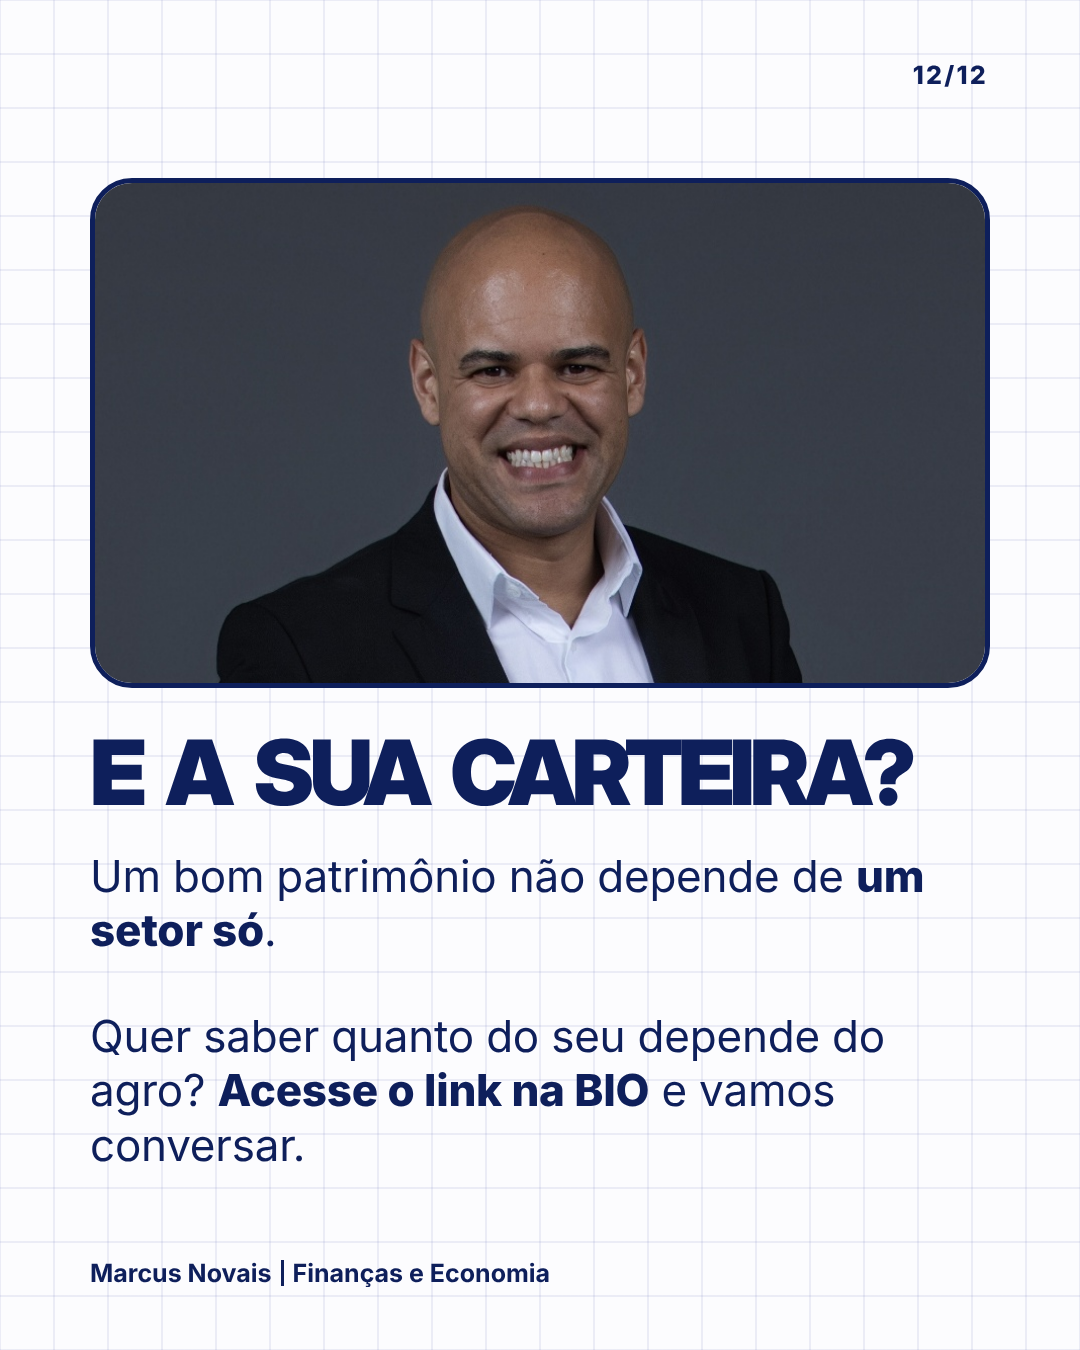
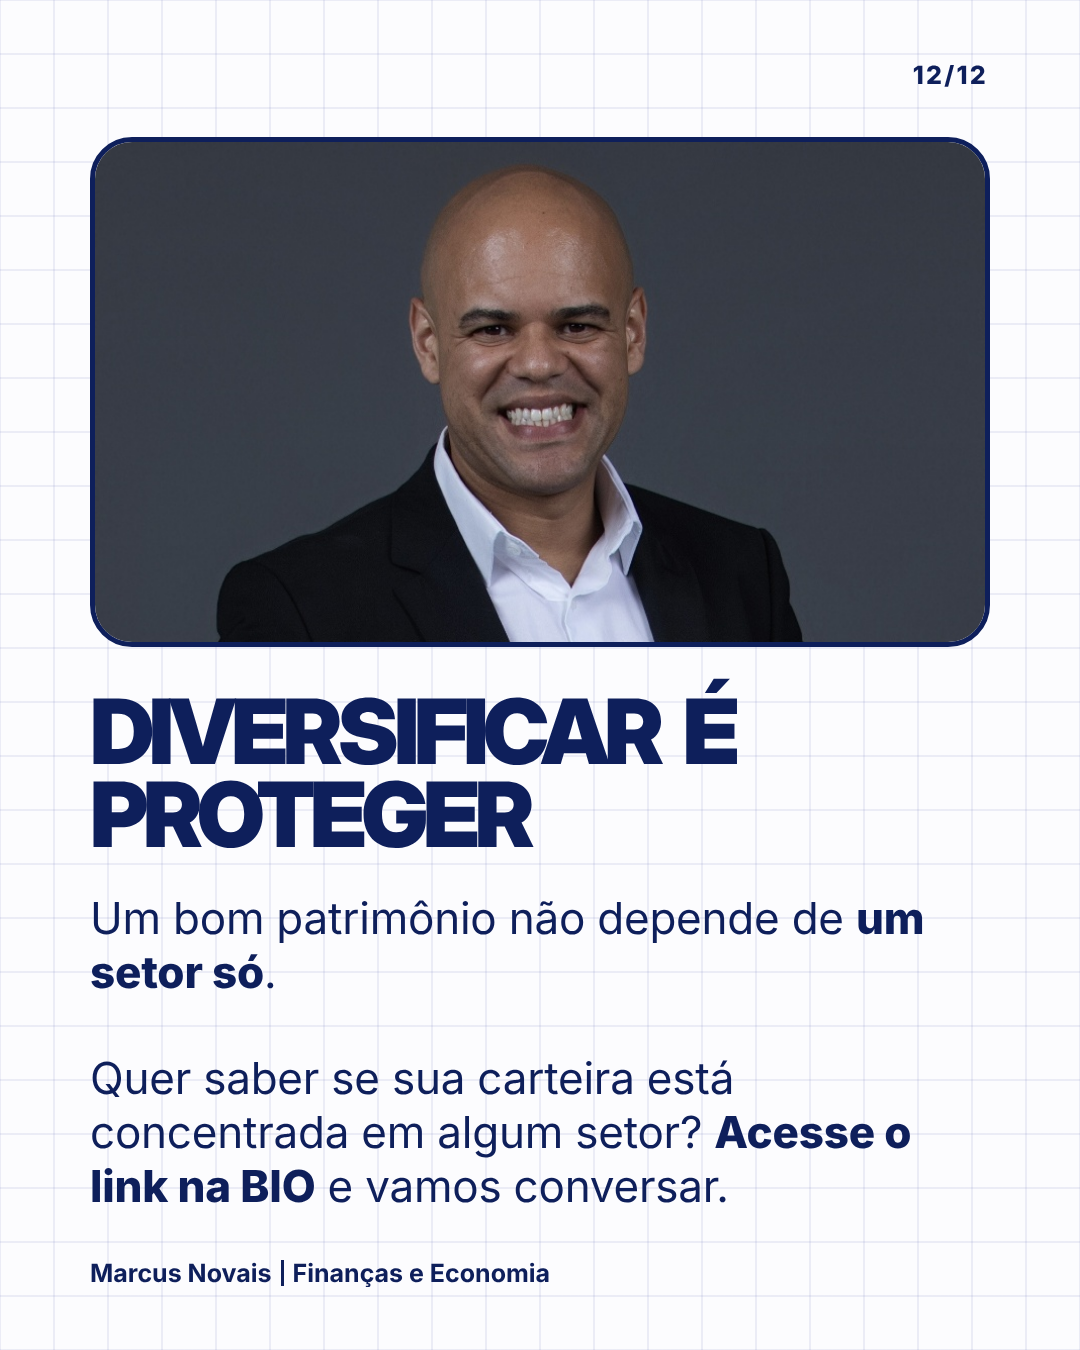
Carrossel China/África: bandeira da China na capa e novo CTA sobre concentração setorial
Claude-Session: https://claude.ai/code/session_01JkBXj6tz5hpSkGAznkwYEm

Changed region(s): [[0.0611, 0.0933, 0.9167, 0.9022]]

diff --git a/carrossel-china-africa-agro/slides.html b/carrossel-china-africa-agro/slides.html
@@ -57,7 +57,10 @@
 
 <!-- 01 CAPA -->
 <section class="slide">
-  <div class="photo" style="height:500px"><img src="img/soja.jpg" style="object-position:50% 62%"></div>
+  <div class="photo" style="height:500px; display:flex">
+    <svg id="flag" viewBox="0 0 13.2 20" preserveAspectRatio="xMinYMid slice" style="width:37%; height:100%; flex:none; border-right:5px solid var(--navy)"><rect width="30" height="20" fill="#EE1C25"/></svg>
+    <img src="img/soja.jpg" style="object-position:38% 62%; width:63%; flex:1">
+  </div>
   <h1>A China abriu a porta para o agro da África.</h1>
   <p>E o Brasil precisa prestar atenção.</p>
 </section>
@@ -166,9 +169,9 @@
 <!-- 12 CTA -->
 <section class="slide">
   <div class="photo" style="height:510px"><img src="img/marcus.jpg" style="object-position:50% 20%"></div>
-  <h1>E a sua carteira?</h1>
+  <h1>Diversificar é proteger</h1>
   <p>Um bom patrimônio não depende de <b>um setor só</b>.</p>
-  <p>Quer saber quanto do seu depende do agro? <b>Acesse o link na BIO</b> e vamos conversar.</p>
+  <p>Quer saber se sua carteira está concentrada em algum setor? <b>Acesse o link na BIO</b> e vamos conversar.</p>
 </section>
 
 <script>
@@ -177,6 +180,14 @@ slides.forEach((s,i)=>{
   const n=String(i+1).padStart(2,'0')+'/'+String(N).padStart(2,'0');
   s.insertAdjacentHTML('beforeend',`<div class="count">${n}</div><div class="foot"><div class="who">Marcus Novais<span></span>Finanças e Economia</div>${i<N-1?'<div class="go">deslize <svg width="38" height="28" viewBox="0 0 38 28" fill="none" stroke="#0e1f5b" stroke-width="3.6" stroke-linecap="round" stroke-linejoin="round"><path d="M2 14h33M23 3l12 11-12 11"/></svg></div>':''}</div>`);
 });
+// bandeira da China: estrela grande em (5,5) e quatro menores apontando para ela
+(function(){
+  const f=document.getElementById('flag');
+  const star=(cx,cy,r,rot)=>{let p=[];for(let i=0;i<10;i++){const a=rot+i*Math.PI/5,q=i%2?r*0.382:r;p.push((cx+q*Math.sin(a)).toFixed(3)+','+(cy-q*Math.cos(a)).toFixed(3));}
+    f.insertAdjacentHTML('beforeend',`<polygon points="${p.join(' ')}" fill="#FFFF00"/>`);};
+  star(5,5,3,0);
+  [[10,2],[12,4],[12,7],[10,9]].forEach(([x,y])=>star(x,y,1,Math.atan2(5-x,-(5-y))));
+})();
 const dots=document.getElementById('v3d'); for(let i=0;i<53;i++) dots.appendChild(document.createElement('i'));
 
 const $=id=>document.getElementById(id);

diff --git a/carrossel-china-africa-agro/roteiro.md b/carrossel-china-africa-agro/roteiro.md
@@ -4,7 +4,7 @@
 
 | # | Tipo | Título | Texto |
 |---|---|---|---|
-| 01 | Foto | A China abriu a porta para o agro da África. | E o Brasil precisa prestar atenção. |
+| 01 | Bandeira da China + foto | A China abriu a porta para o agro da África. | E o Brasil precisa prestar atenção. |
 | 02 | Foto | O que mudou | Desde 1º de maio de 2026, a China zerou a tarifa de importação para 53 países africanos. Café, cacau, castanhas, frutas e carnes ficaram mais baratos para o comprador chinês. |
 | 03 | **Vídeo** | 53 | Contador de 0 a 53 países africanos vendendo para a China sem imposto de importação. |
 | 04 | Cards | Já aparece nos números | 1º tri de 2026: +70% no café africano e +57% no cacau em grão importados pela China. |
@@ -15,7 +15,7 @@
 | 09 | Foto | E o seu patrimônio? | Quando o agro perde fôlego, o efeito chega ao dólar, à renda, ao crédito e à bolsa. |
 | 10 | Lista | Onde o agro se esconde na carteira | LCA, CRA e Fiagro; ações ligadas à safra; terra e negócio da família; renda de região agrícola. |
 | 11 | Texto | Sem alarmismo | Brasil segue líder, produção africana ainda é pequena. Risco de longo prazo: dá tempo de diversificar por setor, indexador e geografia. |
-| 12 | CTA | E a sua carteira? | Um bom patrimônio não depende de um setor só. Quer saber quanto do seu depende do agro? Acesse o link na BIO e vamos conversar. |
+| 12 | CTA | Diversificar é proteger | Um bom patrimônio não depende de um setor só. Quer saber se sua carteira está concentrada em algum setor? Acesse o link na BIO e vamos conversar. |
 
 ## Sugestão de legenda
 
